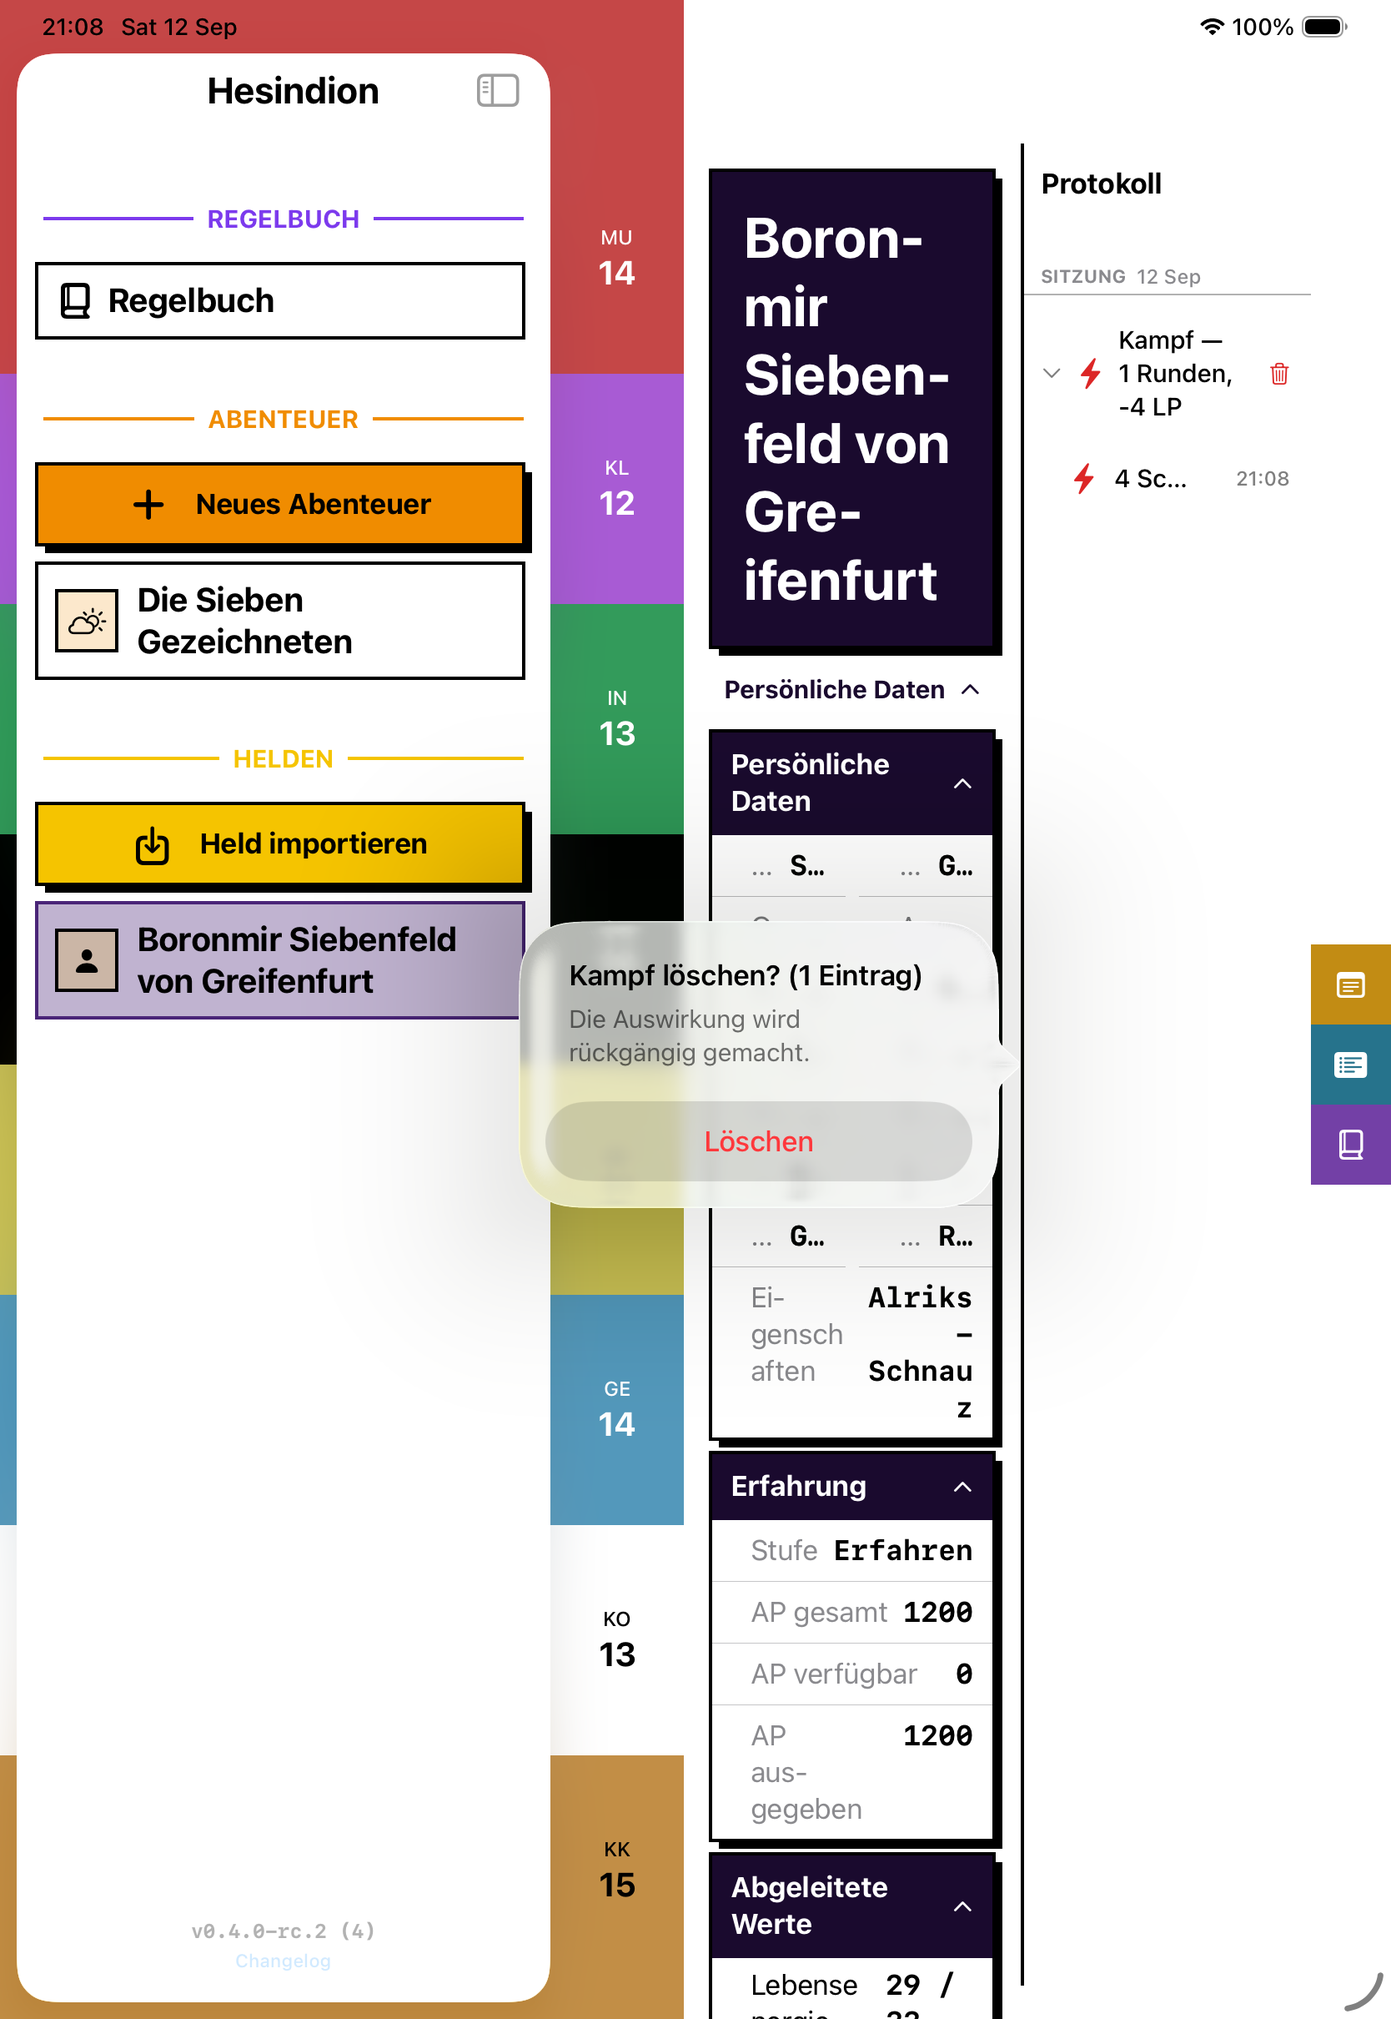
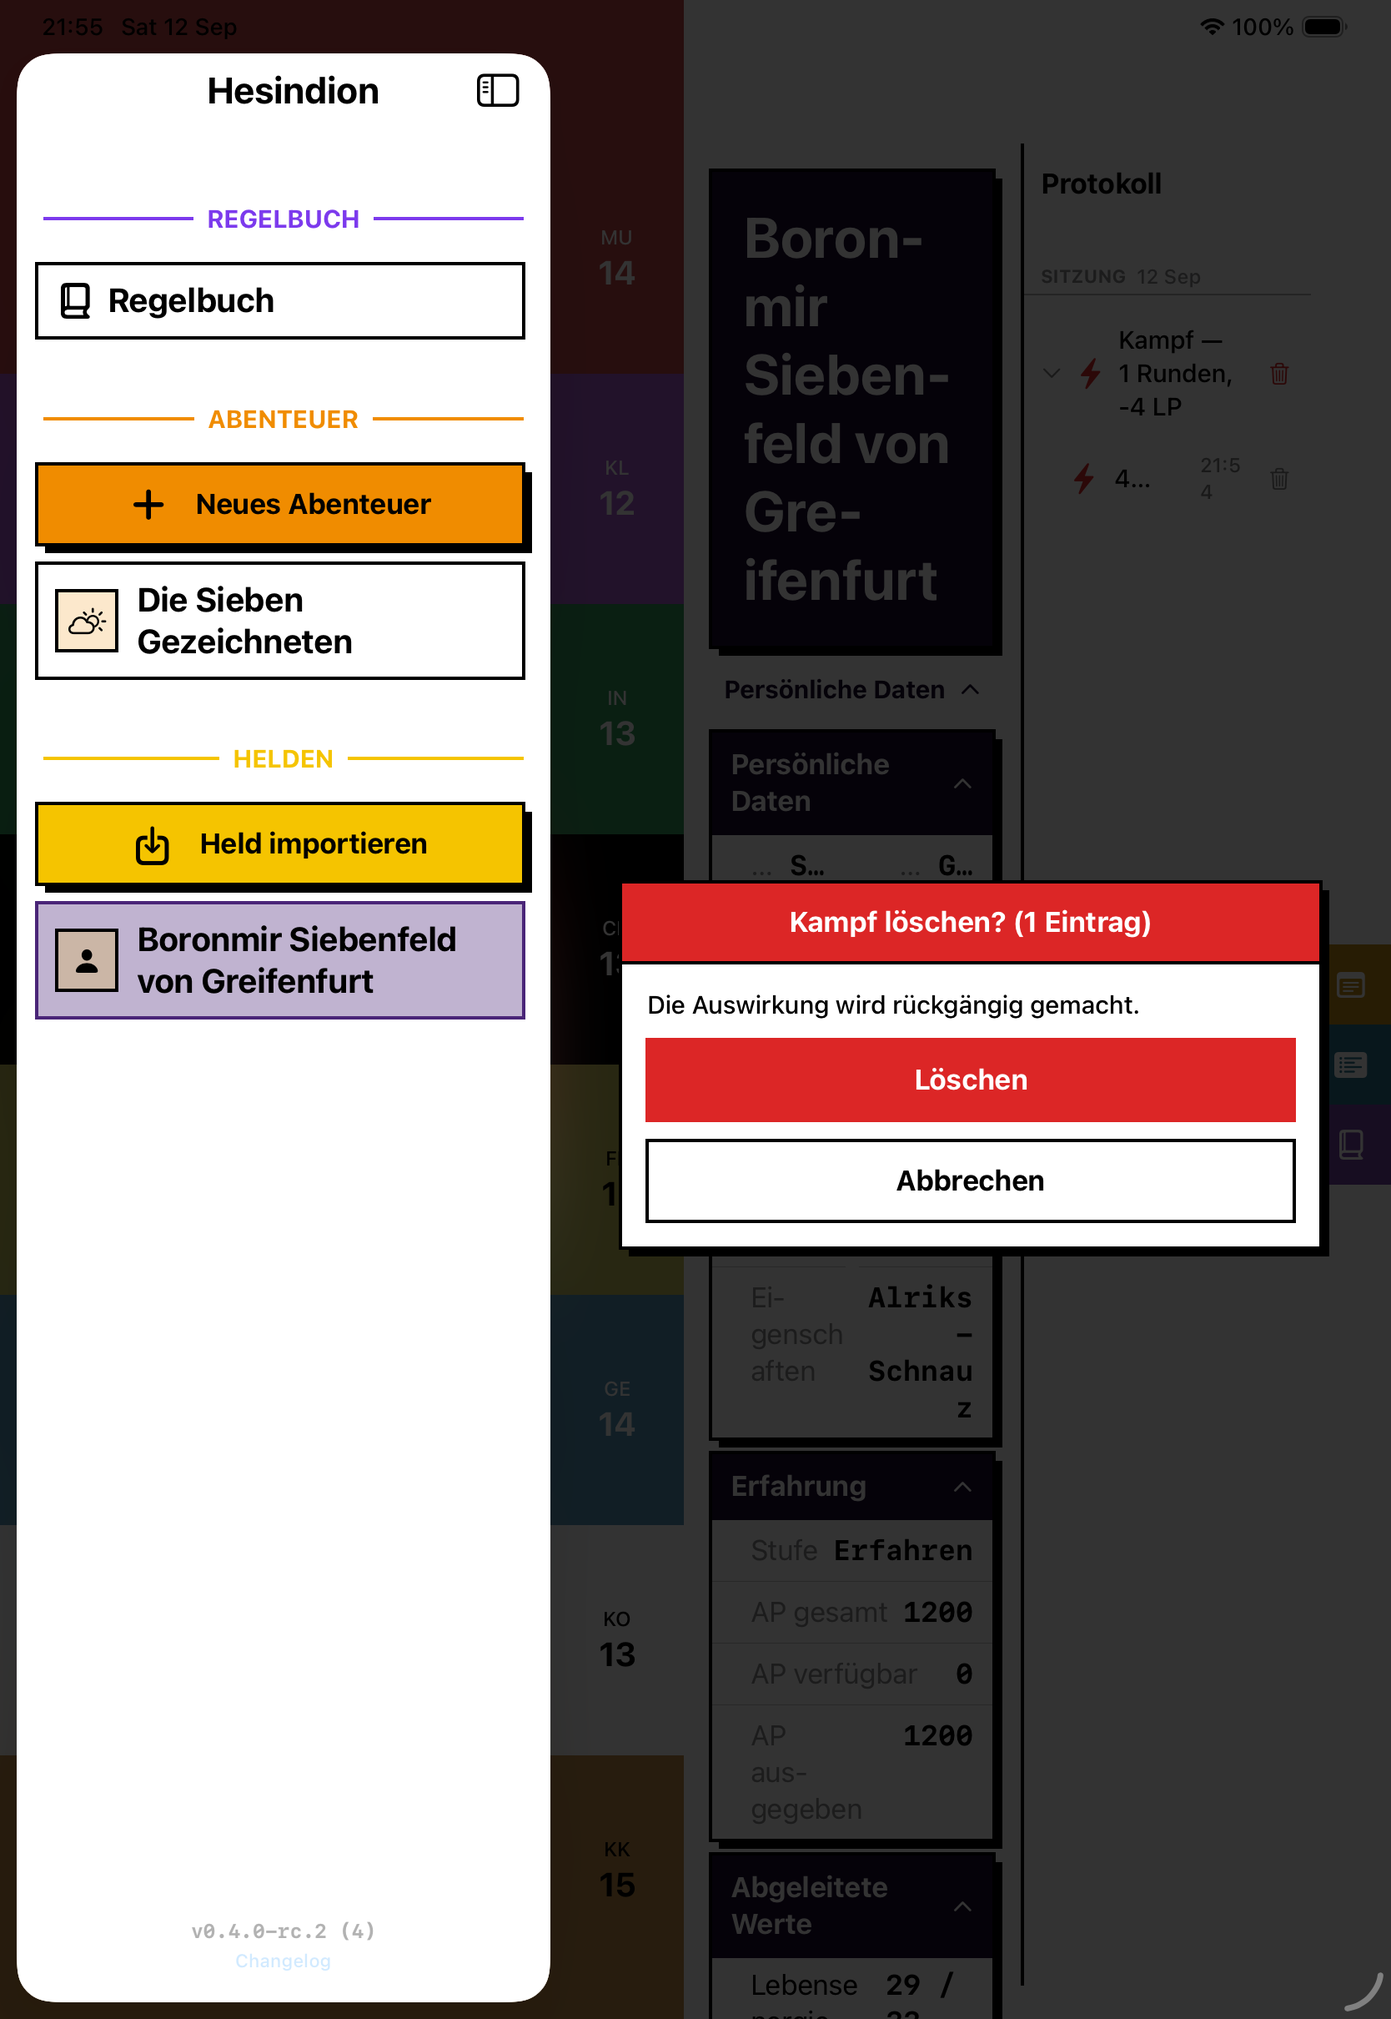
fix(log): the delete confirmation is the app's own modal
The log's delete asked with `.confirmationDialog` — rounded corners, blurred
material and tinted text on a screen built without any of the three. It is
`DSAModal` + `DSAModalButton` now, which is what that component was extracted
for.

Drawn by `SplitContentLayout`, not inside the panel: a modal placed in a side
panel is bounded by it, and in landscape that is a third of the screen — the
title wrapped over three lines and the buttons stacked in a column. Modals in
this app are siblings of the layout (see `HeroDetailView`), so the layout owns
the pending deletion and performs it; the panel only asks. `LogDeletion` moved
out of the panel with it.

The long-press context menu is gone for the same reason — a system popup with
its own material. Each log row carries the trash the combat header already has,
in grey so the list stays calm; the swipe is untouched.

249 unit tests and all 28 UI tests pass, run class by class. The log-panel
snapshot was re-recorded for the row trash.

diff --git a/Hesindion/Views/LogPanelView.swift b/Hesindion/Views/LogPanelView.swift
@@ -1,20 +1,43 @@
 import SwiftUI
 import SwiftData
 
+/// What a delete is about, once asked for and before it is confirmed. A combat
+/// carries the entries it wrote, gathered when the button is pressed, so the
+/// confirmation can say how many go and the delete cannot drift from what was shown.
+///
+/// It lives outside the panel because the confirmation does: a modal drawn inside
+/// the log panel is bounded by it, and in landscape that is a third of the screen
+/// — the panel wraps the title over three lines and stacks the buttons in a
+/// column. `SplitContentLayout` owns the state and draws the modal over the whole
+/// layout, which is where every other modal in the app sits (see `HeroDetailView`).
+enum LogDeletion {
+    case entry(LogEntry)
+    case combat(id: UUID, entries: [LogEntry])
+
+    var entries: [LogEntry] {
+        switch self {
+        case .entry(let entry): [entry]
+        case .combat(_, let entries): entries
+        }
+    }
+
+    var title: String {
+        switch self {
+        case .entry:
+            "Eintrag löschen?"
+        case .combat(_, let entries):
+            "Kampf löschen? (\(entries.count) \(entries.count == 1 ? "Eintrag" : "Einträge"))"
+        }
+    }
+}
+
 struct LogPanelView: View {
     @Bindable var hero: Hero
-    @Environment(\.modelContext) private var modelContext
+    /// Set by the trash buttons; the confirmation and the delete itself belong to
+    /// the layout above, so the modal is not boxed into the panel's width.
+    @Binding var pendingDeletion: LogDeletion?
 
-    @State private var pendingDeletion: PendingDeletion?
     @State private var collapsedCombats: Set<UUID> = []
-
-    /// What the confirmation dialog is about. A combat carries the entries it
-    /// wrote, gathered when the button is pressed, so the dialog can say how many
-    /// go and the delete cannot drift from what was shown.
-    private enum PendingDeletion {
-        case entry(LogEntry)
-        case combat(id: UUID, entries: [LogEntry])
-    }
 
     private var sortedEntries: [LogEntry] {
         hero.logEntries.sorted { $0.timestamp > $1.timestamp }
@@ -42,38 +65,6 @@ struct LogPanelView: View {
                 .frame(width: DSALayout.border)
                 .foregroundStyle(Color.dsaBorder)
         }
-        .confirmationDialog(
-            deletionTitle,
-            isPresented: Binding(
-                get: { pendingDeletion != nil },
-                set: { if !$0 { pendingDeletion = nil } }
-            ),
-            titleVisibility: .visible
-        ) {
-            Button("Löschen", role: .destructive) {
-                switch pendingDeletion {
-                case .entry(let entry):
-                    deleteEntry(entry)
-                case .combat(_, let entries):
-                    entries.forEach(deleteEntry)
-                case nil:
-                    break
-                }
-                pendingDeletion = nil
-            }
-            Button("Abbrechen", role: .cancel) {
-                pendingDeletion = nil
-            }
-        } message: {
-            Text("Die Auswirkung wird rückgängig gemacht.")
-        }
-    }
-
-    private var deletionTitle: String {
-        if case .combat(_, let entries) = pendingDeletion {
-            return "Kampf löschen? (\(entries.count) \(entries.count == 1 ? "Eintrag" : "Einträge"))"
-        }
-        return "Eintrag löschen?"
     }
 
     // MARK: - Log List
@@ -98,14 +89,6 @@ struct LogPanelView: View {
                                 }
                             } label: {
                                 Label("Löschen", systemImage: "trash")
-                            }
-                        }
-                        // The swipe alone was the only way in, and in a narrow
-                        // side panel it is easy to miss and easy to lose to the
-                        // panel's own drag. Long-press reaches the same dialog.
-                        .contextMenu {
-                            Button("Löschen", systemImage: "trash", role: .destructive) {
-                                pendingDeletion = .entry(entry)
                             }
                         }
                 }
@@ -202,6 +185,9 @@ struct LogPanelView: View {
 
     // MARK: - Entry Row
 
+    /// The trailing trash is the same affordance the combat header has. The swipe
+    /// stays, but it was the only way in, and in a narrow side panel it is easy to
+    /// miss and easy to lose to the panel's own drag (issue #13).
     private func entryRow(_ entry: LogEntry, indented: Bool = false) -> some View {
         HStack(spacing: 8) {
             Image(systemName: iconName(for: entry.kind))
@@ -217,6 +203,20 @@ struct LogPanelView: View {
             Text(entry.timestamp, style: .time)
                 .font(.dsaBody(.caption))
                 .foregroundStyle(.secondary)
+
+            Button {
+                pendingDeletion = .entry(entry)
+            } label: {
+                Image(systemName: "trash")
+                    .font(.caption)
+                    .foregroundStyle(.secondary)
+                    .padding(.leading, 8)
+                    .padding(.vertical, 4)
+                    .contentShape(Rectangle())
+            }
+            .buttonStyle(.dsaMotion)
+            .accessibilityLabel("Eintrag löschen")
+            .accessibilityIdentifier("log.deleteEntry")
         }
         .padding(.horizontal, DSALayout.contentPadding)
         .padding(.leading, indented ? 16 : 0)
@@ -474,10 +474,4 @@ struct LogPanelView: View {
         }
     }
 
-    // MARK: - Deletion
-
-    private func deleteEntry(_ entry: LogEntry) {
-        entry.reversible()?.reverse(on: hero)
-        modelContext.delete(entry)
-    }
 }

diff --git a/HesindionUITests/CombatLogDeletionFlowTests.swift b/HesindionUITests/CombatLogDeletionFlowTests.swift
@@ -4,8 +4,9 @@ import XCTest
 ///
 /// A finished fight could not be removed at all: the header only collapsed its rows,
 /// and a collapsed combat leaves nothing to swipe. The single-entry swipe existed but
-/// was the only way in, which in a narrow side panel is easy to miss — so both a
-/// visible trash on the header and a long-press on an entry are covered here.
+/// was the only way in, which in a narrow side panel is easy to miss — so the visible
+/// trash on the header and the one on an entry row are both covered here, along with
+/// the confirmation, which is the app's own modal rather than a system dialog.
 final class CombatLogDeletionFlowTests: XCTestCase {
 
     static let combatHeader = "Kampf —"
@@ -76,7 +77,7 @@ final class CombatLogDeletionFlowTests: XCTestCase {
         XCTAssertTrue(dialogTitle.waitForExistence(timeout: UITest.timeout), "Delete dialog not shown")
         captureScreenshot(app, named: "31-log-delete-combat")
 
-        app.buttons["Löschen"].tap()
+        app.buttons["log.deleteConfirm"].tap()
 
         XCTAssertTrue(
             header(app).waitForNonExistence(timeout: UITest.timeout),
@@ -84,9 +85,10 @@ final class CombatLogDeletionFlowTests: XCTestCase {
         )
     }
 
-    /// One action inside a fight, via long-press — the half that only had a swipe.
+    /// One action inside a fight, from the row's own trash — the half that only had
+    /// a swipe.
     @MainActor
-    func testASingleActionCanBeDeletedByLongPress() {
+    func testASingleActionCanBeDeletedFromItsRow() {
         continueAfterFailure = false
         let app = launchWithALoggedCombat()
 
@@ -95,24 +97,40 @@ final class CombatLogDeletionFlowTests: XCTestCase {
             .firstMatch
         XCTAssertTrue(entry.waitForExistence(timeout: UITest.timeout), "The damage entry is not in the log")
 
-        entry.press(forDuration: 1.2)
+        let trash = app.buttons["log.deleteEntry"].firstMatch
+        XCTAssertTrue(trash.waitForExistence(timeout: UITest.timeout), "Entry delete button missing")
+        trash.tap()
 
-        let delete = app.buttons["Löschen"]
-        XCTAssertTrue(delete.waitForExistence(timeout: UITest.timeout), "Long press did not offer Löschen")
-        delete.tap()
-
-        // The context menu leads to the same confirmation as the swipe. Waiting on
-        // the dialog's own title first, because its button carries the same label
-        // as the menu item just tapped.
         let dialogTitle = app.descendants(matching: .any)
             .matching(NSPredicate(format: "label CONTAINS[c] %@", "Eintrag löschen?"))
             .firstMatch
         XCTAssertTrue(dialogTitle.waitForExistence(timeout: UITest.timeout), "Delete confirmation not shown")
-        app.buttons["Löschen"].tap()
+        app.buttons["log.deleteConfirm"].tap()
 
         XCTAssertTrue(
             entry.waitForNonExistence(timeout: UITest.timeout),
             "The entry should be gone once deleted"
+        )
+    }
+
+    /// Cancelling leaves the log alone — the modal is insistent, so this is the only
+    /// way out besides deleting.
+    @MainActor
+    func testCancellingKeepsTheCombat() {
+        continueAfterFailure = false
+        let app = launchWithALoggedCombat()
+
+        let trash = app.buttons["log.deleteCombat"]
+        XCTAssertTrue(trash.waitForExistence(timeout: UITest.timeout), "Combat delete button missing")
+        trash.tap()
+
+        let cancel = app.buttons["log.deleteCancel"]
+        XCTAssertTrue(cancel.waitForExistence(timeout: UITest.timeout), "Cancel missing")
+        cancel.tap()
+
+        XCTAssertTrue(
+            header(app).waitForExistence(timeout: UITest.timeout),
+            "Cancelling must leave the combat in the log"
         )
     }
 }

diff --git a/Hesindion/Views/ContentWithNotesLayout.swift b/Hesindion/Views/ContentWithNotesLayout.swift
@@ -1,3 +1,4 @@
+import SwiftData
 import SwiftUI
 
 // MARK: - SidePanel
@@ -19,16 +20,63 @@ struct SplitContentLayout<Content: View>: View {
     @ViewBuilder let content: Content
 
     @Environment(\.horizontalSizeClass) private var sizeClass
+    @Environment(\.modelContext) private var modelContext
+
+    /// The log panel asks for a delete; the confirmation is drawn here, over the
+    /// whole layout, because a modal inside the panel is bounded by the panel.
+    @State private var logDeletion: LogDeletion?
 
     private var isLandscape: Bool {
         sizeClass == .regular
     }
 
     var body: some View {
-        if isLandscape {
-            landscapeLayout
-        } else {
-            portraitLayout
+        ZStack {
+            if isLandscape {
+                landscapeLayout
+            } else {
+                portraitLayout
+            }
+
+            if let deletion = logDeletion {
+                deletionModal(deletion)
+            }
+        }
+    }
+
+    // MARK: - Deleting from the log
+
+    /// The app's own modal, not `.confirmationDialog`: a system dialog brings
+    /// rounded corners, blurred material and tinted text onto a screen built
+    /// without any of the three (see `DSAModal`).
+    private func deletionModal(_ deletion: LogDeletion) -> some View {
+        DSAModal(title: deletion.title, accent: Color.groupCombat) {
+            Text("Die Auswirkung wird rückgängig gemacht.")
+                .font(.dsaBody(.subheadline))
+                .frame(maxWidth: .infinity, alignment: .leading)
+
+            DSAModalButton(
+                title: "Löschen",
+                accent: Color.groupCombat,
+                identifier: "log.deleteConfirm"
+            ) {
+                // Each entry undoes its own effect on the way out — the LP a hit
+                // took, the LP a heal gave — exactly as deleting one always did.
+                for entry in deletion.entries {
+                    entry.reversible()?.reverse(on: hero)
+                    modelContext.delete(entry)
+                }
+                logDeletion = nil
+            }
+
+            DSAModalButton(
+                title: "Abbrechen",
+                accent: Color.groupCombat,
+                filled: false,
+                identifier: "log.deleteCancel"
+            ) {
+                logDeletion = nil
+            }
         }
     }
 
@@ -89,7 +137,7 @@ struct SplitContentLayout<Content: View>: View {
         case .notes:
             NotesPanelView(hero: hero)
         case .logs:
-            LogPanelView(hero: hero)
+            LogPanelView(hero: hero, pendingDeletion: $logDeletion)
         case .rules:
             RulebookPanelView()
         }

diff --git a/HesindionTests/Snapshots/AbilitySuccessRateSnapshotTests.swift b/HesindionTests/Snapshots/AbilitySuccessRateSnapshotTests.swift
@@ -102,7 +102,9 @@ final class AbilitySuccessRateSnapshotTests: XCTestCase {
         let context = ModelContext(container)
         seedLog(for: hero, in: context)
 
-        let view = LogPanelView(hero: hero)
+        // The delete confirmation is drawn by `SplitContentLayout`, not the panel,
+        // so nothing here can be pending.
+        let view = LogPanelView(hero: hero, pendingDeletion: .constant(nil))
             .modelContainer(container)
             .frame(width: 440, height: 720)
             .environment(\.colorScheme, .light)

diff --git a/CHANGELOG.md b/CHANGELOG.md
@@ -12,7 +12,8 @@ The format is based on [Keep a Changelog](https://keepachangelog.com/en/1.0.0/).
 
 ### Fixed
 
-- **A finished combat could not be deleted from the log.** The combat header only collapsed its rows, and a collapsed combat leaves nothing to swipe, so the single-entry swipe — the only way in — was out of reach as well. The header now carries a visible trash for the whole fight, with the number of entries named in the confirmation, and every entry answers a long-press as well as a swipe. Deleting reverses each entry's LP change, as a single delete already did (issue #13)
+- **A finished combat could not be deleted from the log.** The combat header only collapsed its rows, and a collapsed combat leaves nothing to swipe, so the single-entry swipe — the only way in — was out of reach as well. The header now carries a visible trash for the whole fight, with the number of entries named in the confirmation, and every row carries the same trash beside its timestamp (the swipe still works). Deleting reverses each entry's LP change, as a single delete already did (issue #13)
+- The log's delete confirmation was a system `confirmationDialog` — rounded corners, blurred material, tinted text, on a screen built without any of the three. It is `DSAModal` now, drawn by `SplitContentLayout` rather than inside the panel, because a modal placed in a side panel is bounded by it
 - The "Held" label above the LP bar was printed even on foot, where it labels the only bar on screen. It appears with the mount's bar, which is what it exists to tell apart (issue #24)
 - **The first defence of a round was already at −3.** The Mehrfache-Verteidigung count was incremented as the Parieren or Ausweichen button was tapped and then read back for the very defence that had incremented it. It is now counted when a defence roll is set up, so the first defence of the round is unmodified, the second is at −3 and the third at −6 (issue #20)
 - **Parries and dodges are counted apart.** Mehrfache Verteidigung applies per defence type, so having parried twice no longer makes the round's first dodge harder, and the two buttons price their own next defence ("2. Parade · −3", "1. Ausweichen") (issue #20)

diff --git a/AGENTS.md b/AGENTS.md
@@ -103,6 +103,9 @@ Three known intermittent failures — none of them regressions:
 
 The UI follows a **Neo-Brutalist** design theme.
 
+- **No system dialogs.** A confirmation is `DSAModal` + `DSAModalButton`, never `.alert` or `.confirmationDialog`: a system dialog brings rounded corners, blurred material and tinted text onto a screen built without any of the three. The same goes for `.contextMenu`
+- **A modal is a sibling of the layout, not a child of a panel.** It is drawn in the root `ZStack` next to `SplitContentLayout` (see `HeroDetailView`, and `SplitContentLayout` itself for the log's delete), because a modal placed inside a side panel is bounded by it — in landscape that is a third of the screen
+
 ## Swift Configuration
 
 - Main actor isolation is enabled by default (`SWIFT_DEFAULT_ACTOR_ISOLATION = MainActor`)
